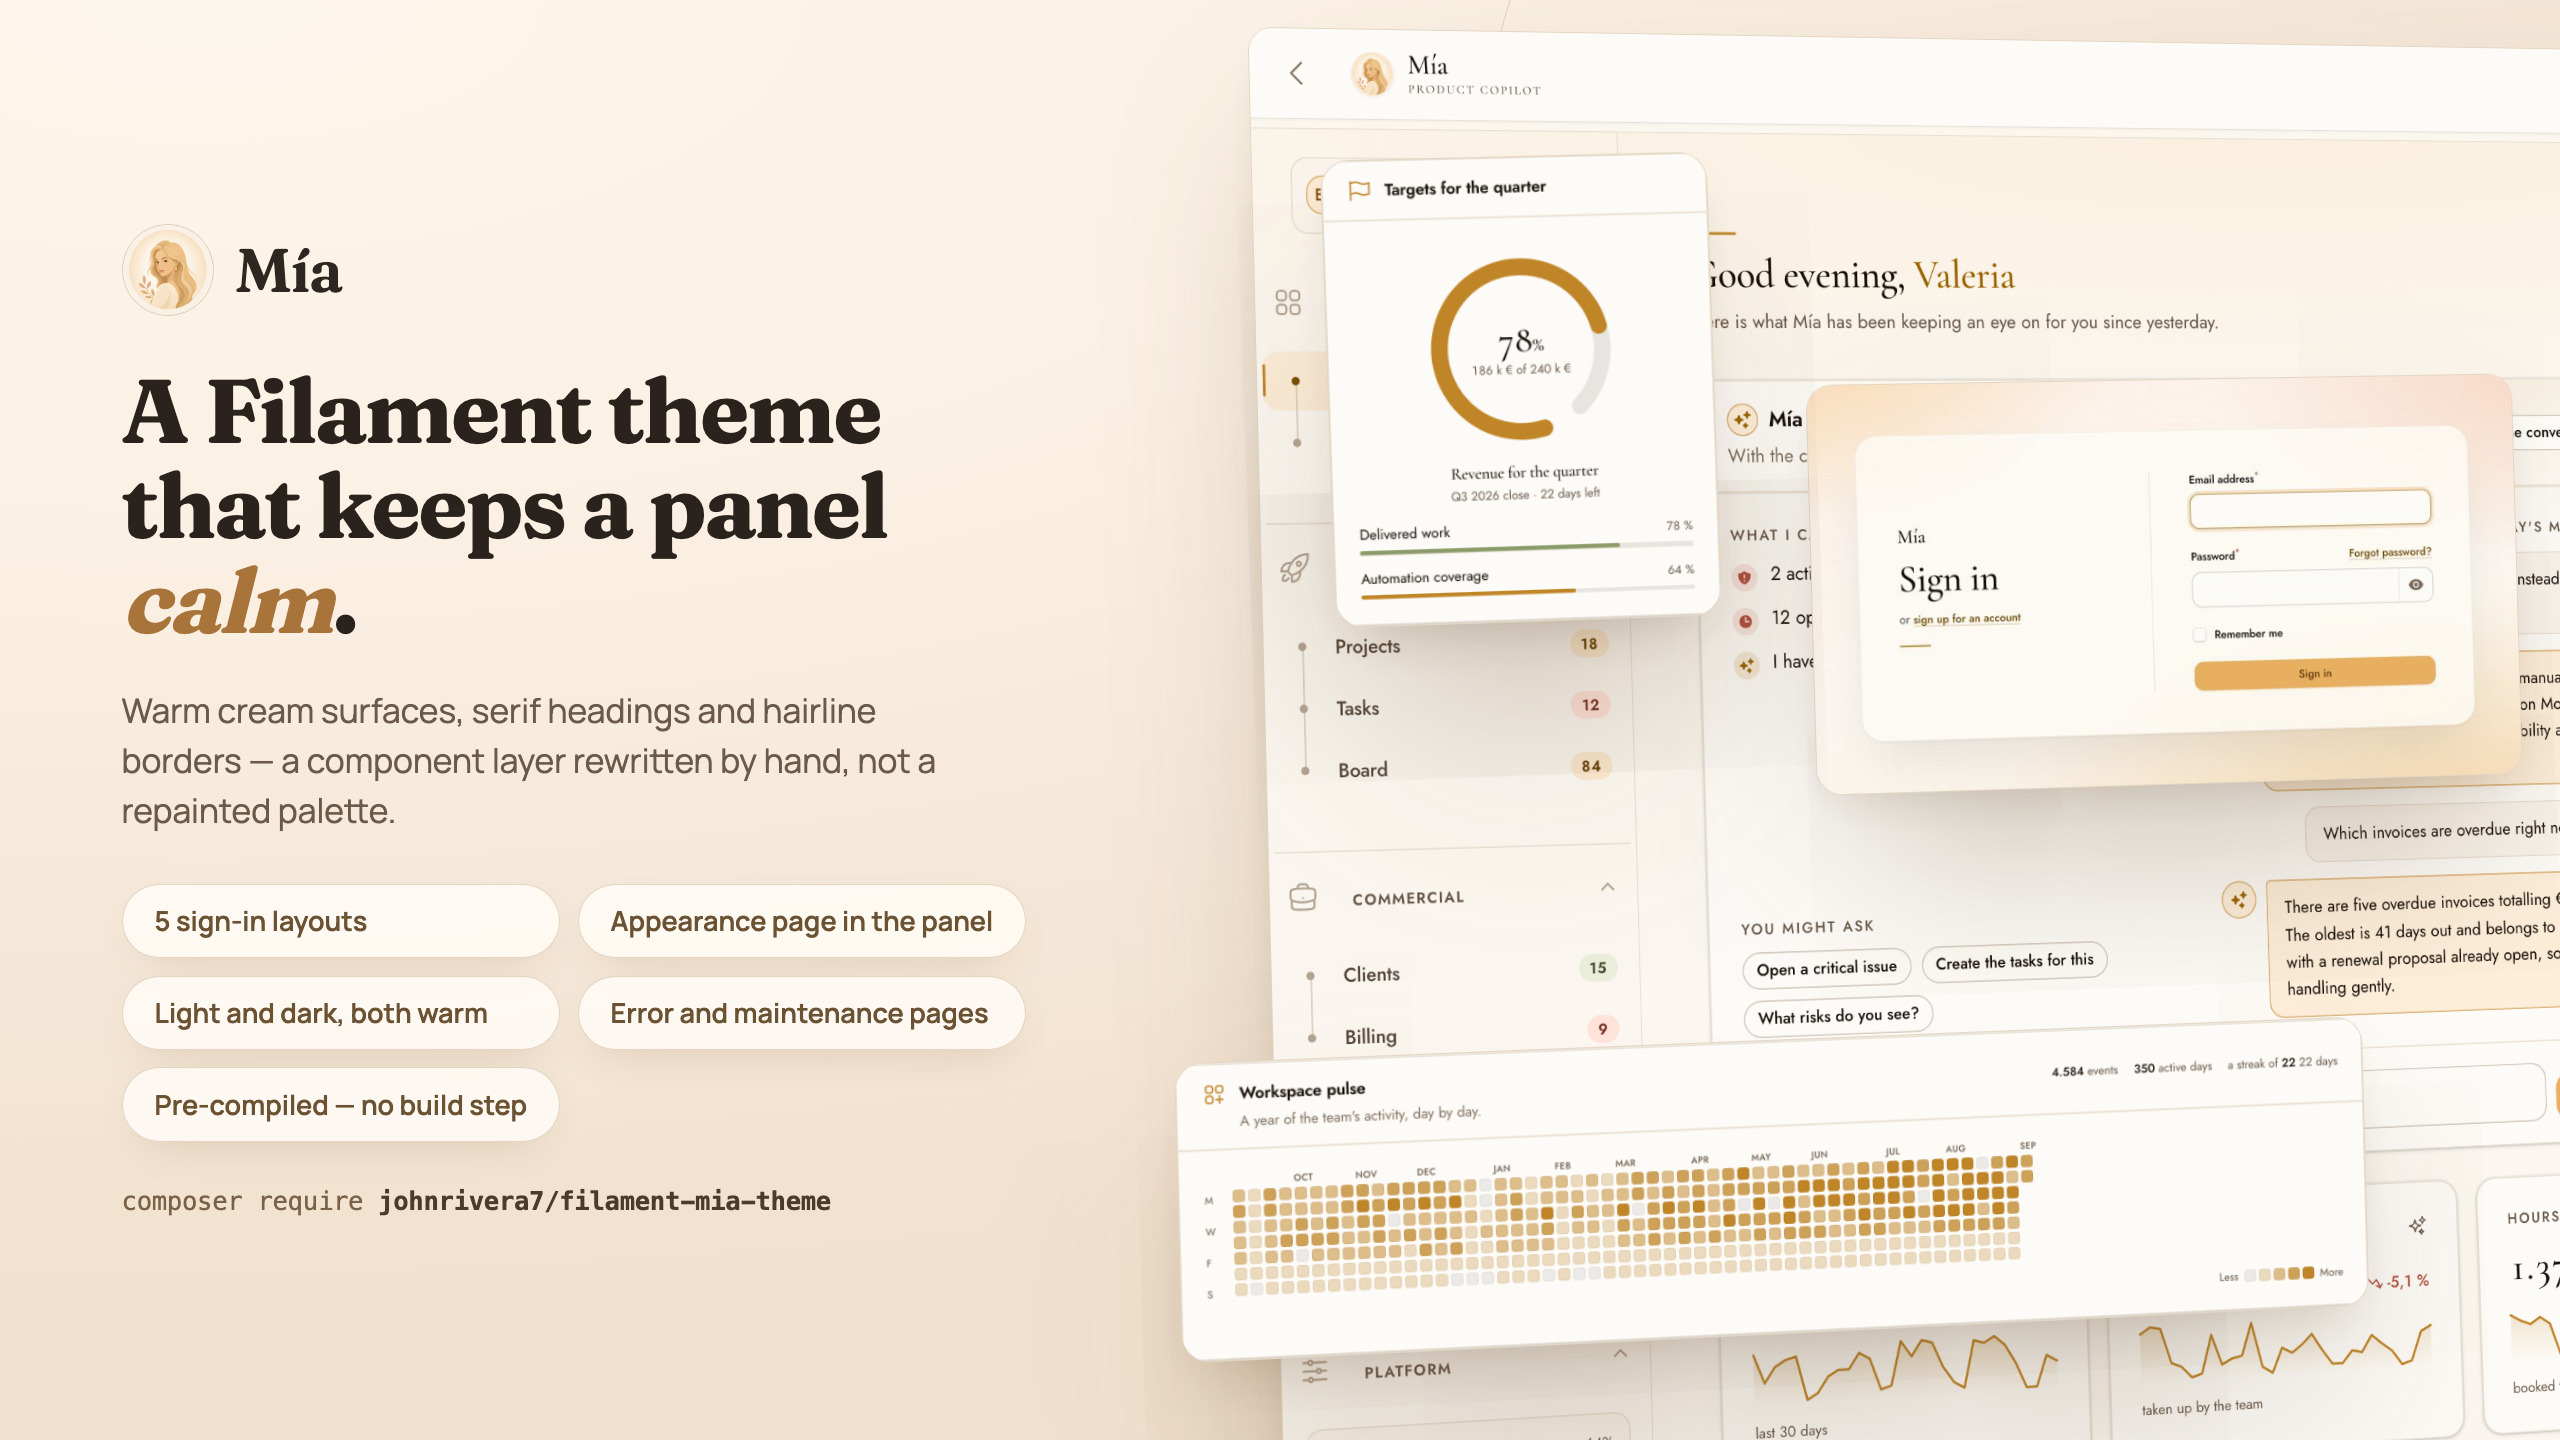
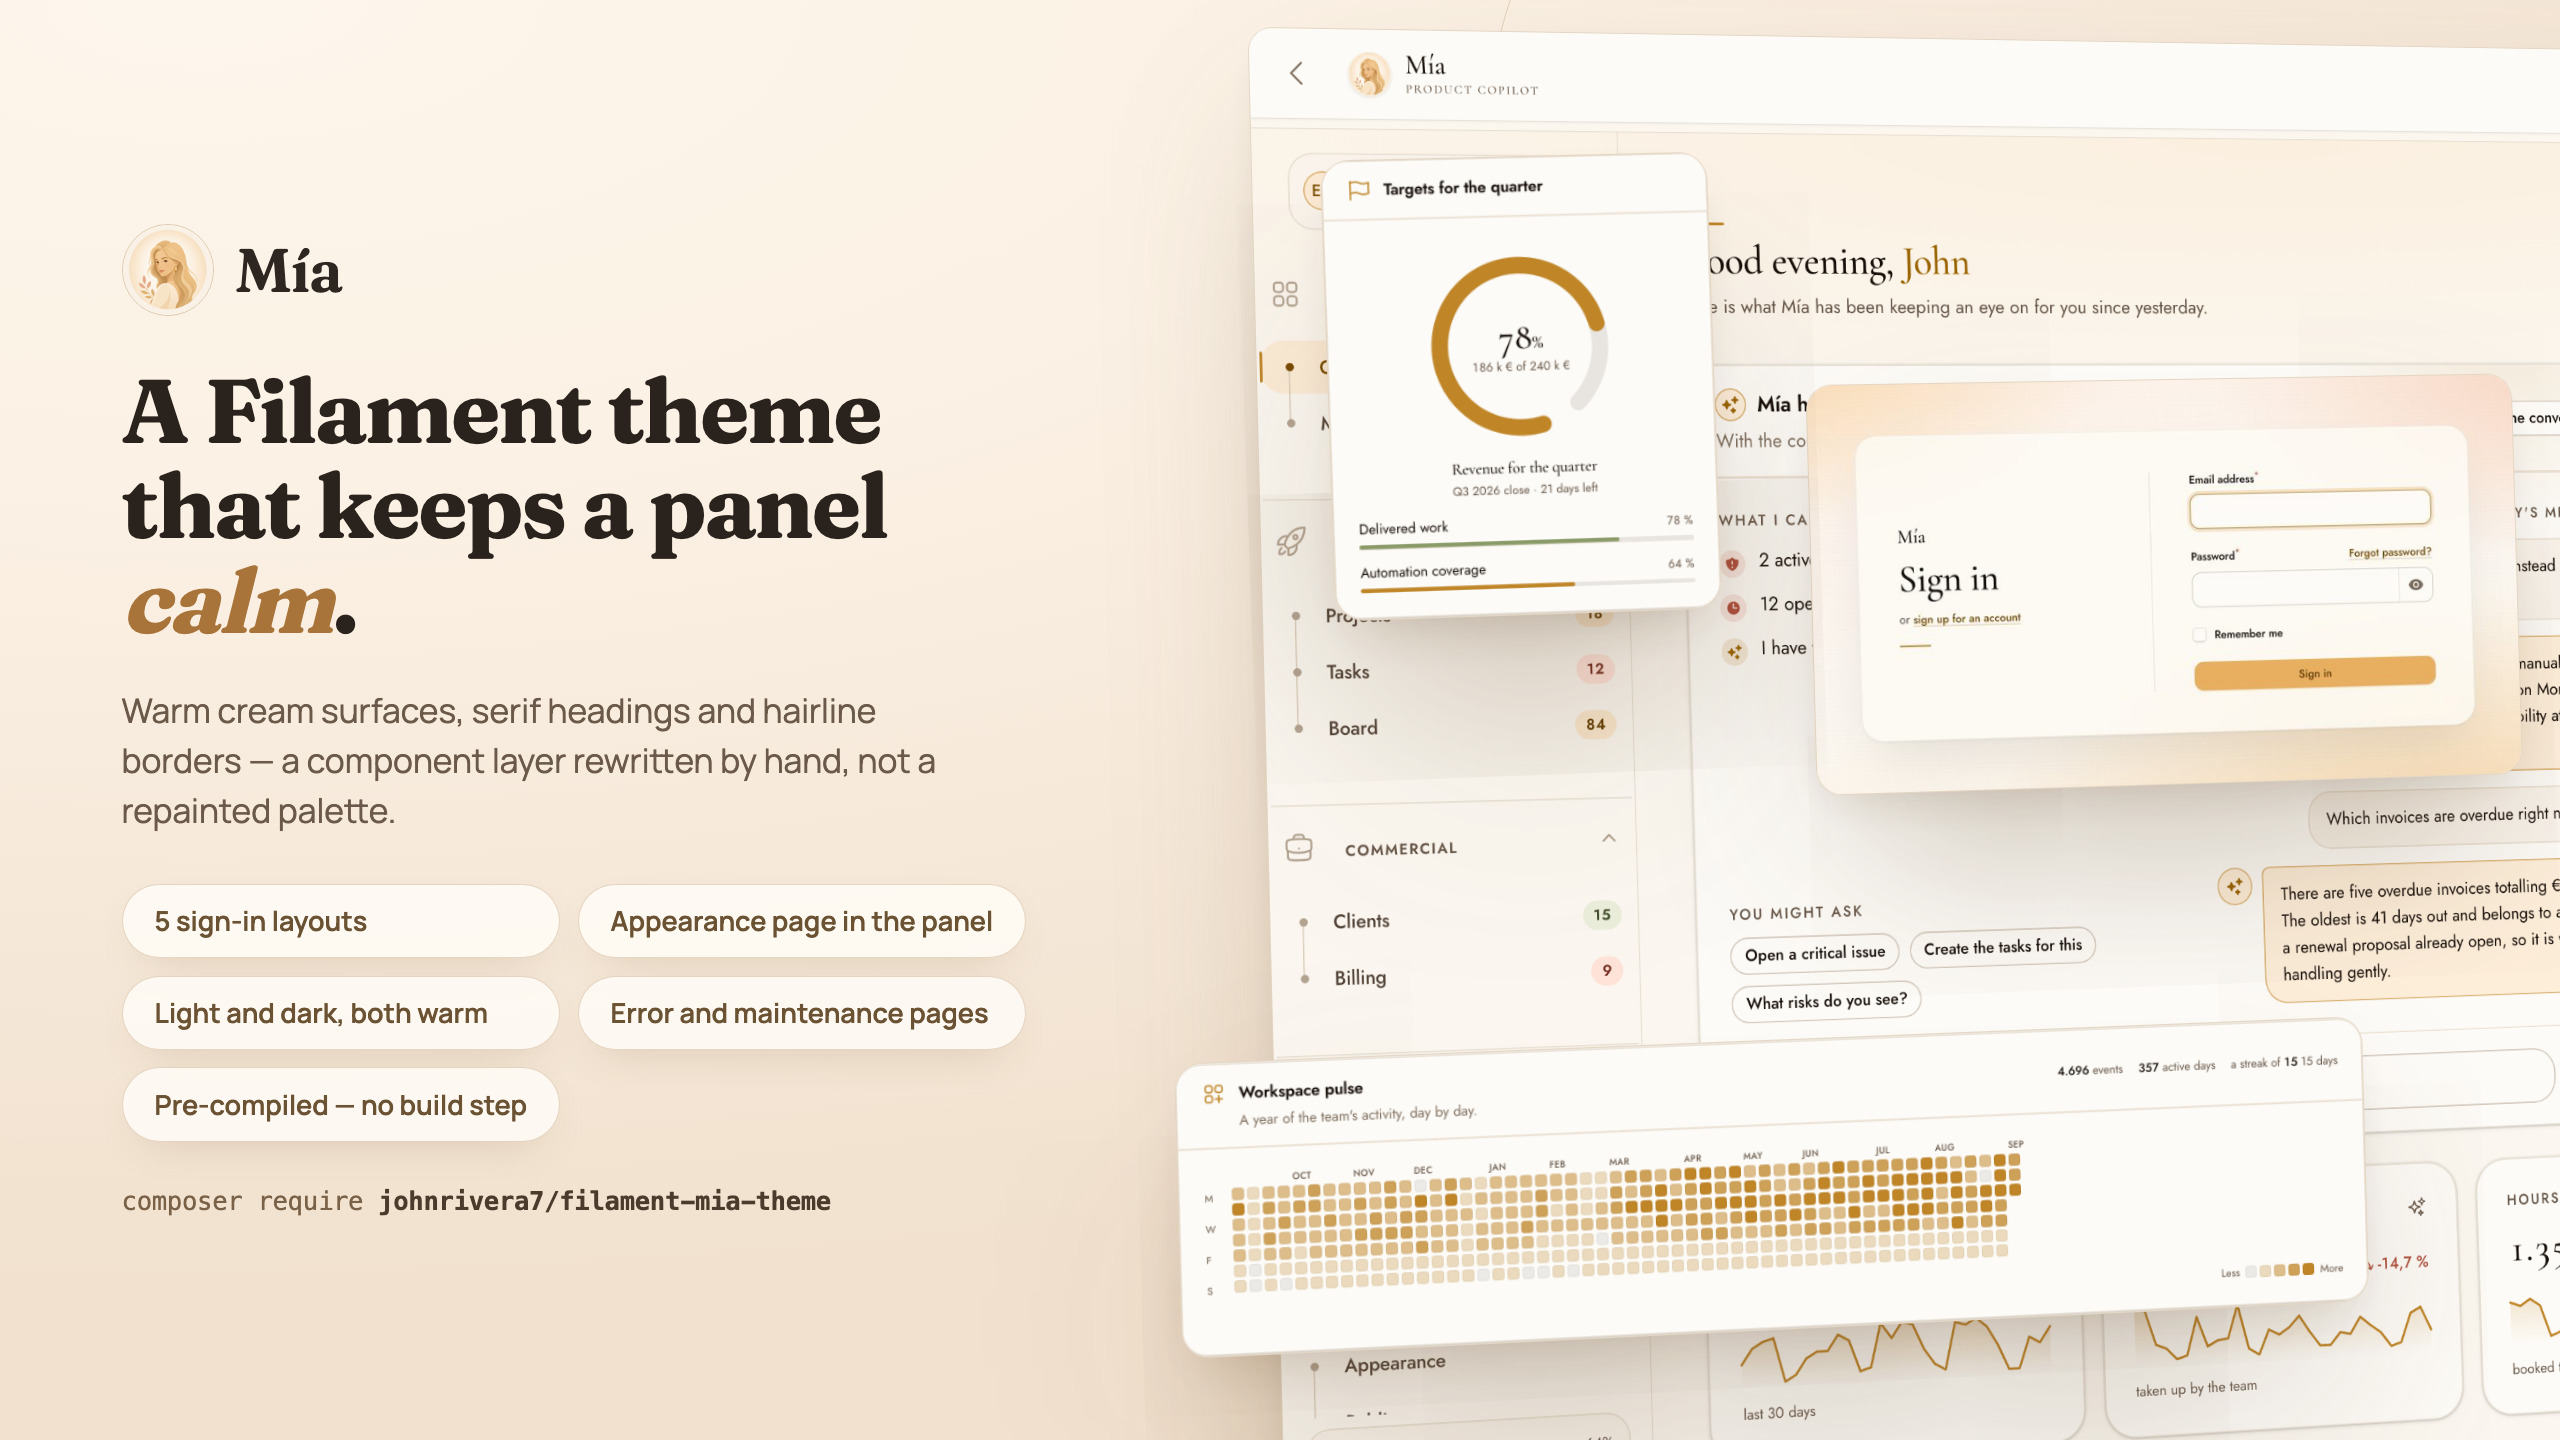
docs: usar John en el demo y regenerar cover del listing
El saludo de las capturas del directorio pasa a Good evening, John, con la cuenta john@mia.test.

diff --git a/workbench/database/seeders/DatabaseSeeder.php b/workbench/database/seeders/DatabaseSeeder.php
@@ -25,8 +25,8 @@ class DatabaseSeeder extends Seeder
         fake()->seed(20260907);
 
         $account = UserFactory::new()->create([
-            'name' => 'Valeria Ossa',
-            'email' => 'valeria@mia.test',
+            'name' => 'John Rivera',
+            'email' => 'john@mia.test',
             'password' => 'password',
         ]);
 

diff --git a/README.md b/README.md
@@ -1600,7 +1600,7 @@ php vendor/bin/testbench serve
 
 That serves a panel at `/admin` with sign-in, registration, password recovery
 and a multi-factor challenge, against one invented account
-(`valeria@mia.test` / `password`). Behind it is a small worked example — a
+(`john@mia.test` / `password`). Behind it is a small worked example — a
 projects list, a client list, a dashboard of stats and charts, and the
 appearance page — seeded from a fixed number, so the same records come back in
 the same order on every build. Every screenshot in this README is taken from
